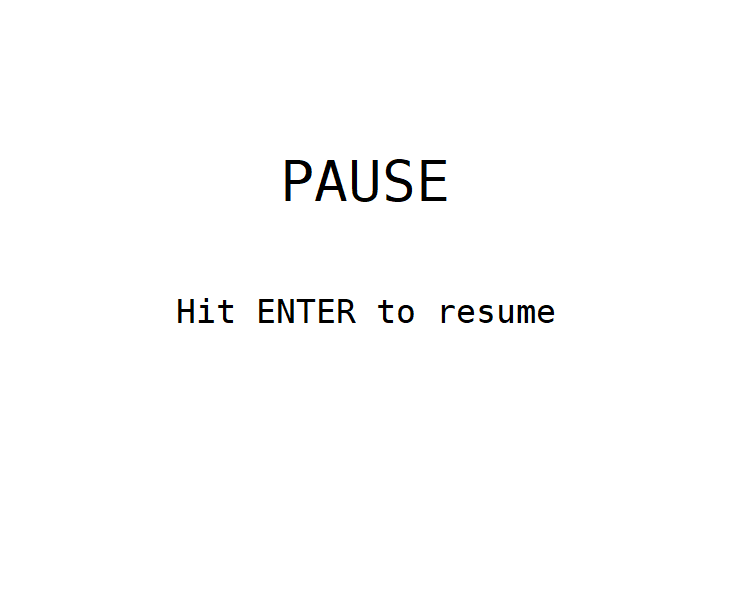
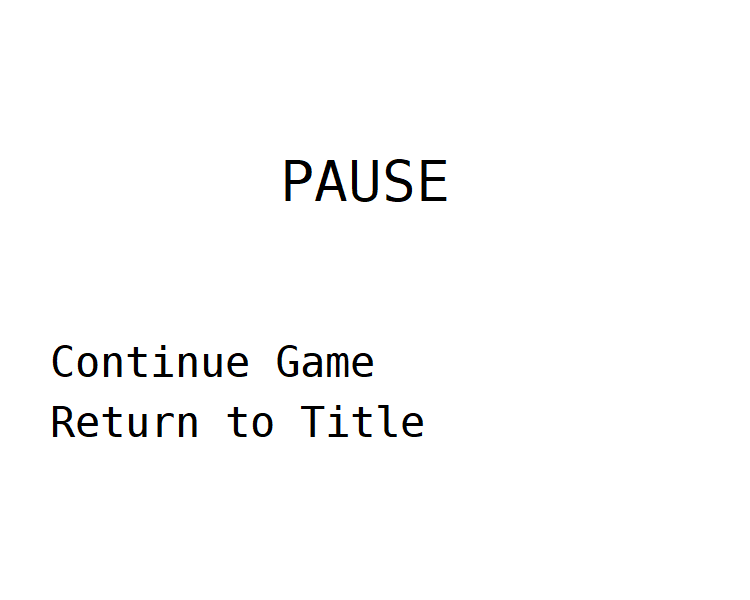
Add option in title and pause screen

diff --git a/src/main/java/org/atoiks/games/seihou2/scenes/AbstractGameScene.java b/src/main/java/org/atoiks/games/seihou2/scenes/AbstractGameScene.java
@@ -18,6 +18,14 @@ public abstract class AbstractGameScene extends Scene {
     public static final float DEFAULT_DY = 300f;
     public static final Color PAUSE_OVERLAY = new Color(192, 192, 192, 100);
 
+    // Conventionally, continue is always the first option,
+    // sceneDest is always one less than the selector{X, Y}
+    private static final int[] selectorX = {388, 434};
+    private static final int[] selectorY = {383, 444};
+    private static final int[] sceneDest = {1};
+
+    private int selector;
+
     protected final Game game = new Game();
 
     private byte updatePhase = -1;
@@ -37,7 +45,7 @@ public abstract class AbstractGameScene extends Scene {
     }
 
     @Override
-    public void enter() {
+    public void enter(int prevSceneId) {
         hpImg = (Image) scene.resources().get("hp.png");
         statsImg = (Image) scene.resources().get("stats.png");
         pauseImg = (Image) scene.resources().get("pause.png");
@@ -80,6 +88,8 @@ public abstract class AbstractGameScene extends Scene {
         game.render(g);
         if (pause) {
             g.drawImage(pauseImg, 0, 0, PAUSE_OVERLAY, null);
+            g.setColor(Color.black);
+            g.drawLine(55, selectorY[selector], selectorX[selector], selectorY[selector]);
         }
 
         // The game stats part
@@ -103,8 +113,21 @@ public abstract class AbstractGameScene extends Scene {
             }
             playerFireTimeout -= dt;
             return procPlayerPos(dt) && updatePhases[updatePhase].update(dt);
-        } else if (scene.keyboard().isKeyPressed(KeyEvent.VK_ENTER)) {
-            pause = false;
+        } else {
+            if (scene.keyboard().isKeyPressed(KeyEvent.VK_DOWN)) {
+                if (++selector >= selectorX.length) selector = 0;
+            }
+            if (scene.keyboard().isKeyPressed(KeyEvent.VK_UP)) {
+                if (--selector < 0) selector = selectorX.length - 1;
+            }
+            if (scene.keyboard().isKeyPressed(KeyEvent.VK_ENTER)) {
+                if (selector == 0) {
+                    pause = false;
+                } else {
+                    scene.switchToScene(sceneDest[selector - 1]);
+                }
+                return true;
+            }
         }
         return true;
     }

diff --git a/src/main/java/org/atoiks/games/seihou2/scenes/TitleScene.java b/src/main/java/org/atoiks/games/seihou2/scenes/TitleScene.java
@@ -14,20 +14,41 @@ import static org.atoiks.games.seihou2.scenes.MainScene.WIDTH;
 
 public final class TitleScene extends Scene {
 
+    // Conventionally, last scene is always Quit,
+    // sceneDest is always one less than the selector{X, Y}
+    private static final int[] selectorX = {270, 322, 175};
+    private static final int[] selectorY = {293, 357, 502};
+    private static final int[] sceneDest = {2, 3};
+
     private Image titleImg;
     private Clip bgm;
+    private int selector;
 
 	@Override
 	public void render(Graphics g) {
         g.setColor(Color.black);
         g.fillRect(0, 0, WIDTH, HEIGHT);
         g.drawImage(titleImg, 0, 0, null);
+        g.setColor(Color.white);
+        g.drawLine(65, selectorY[selector], selectorX[selector], selectorY[selector]);
 	}
 
 	@Override
 	public boolean update(float dt) {
         if (scene.keyboard().isKeyPressed(KeyEvent.VK_ENTER)) {
-            scene.gotoNextScene();
+            if (selector < sceneDest.length) {
+                scene.switchToScene(sceneDest[selector]);
+                return true;
+            }
+
+            // Quit was chosen
+            return false;
+        }
+        if (scene.keyboard().isKeyPressed(KeyEvent.VK_DOWN)) {
+            if (++selector >= selectorX.length) selector = 0;
+        }
+        if (scene.keyboard().isKeyPressed(KeyEvent.VK_UP)) {
+            if (--selector < 0) selector = selectorX.length - 1;
         }
 		return true;
 	}
@@ -38,7 +59,7 @@ public final class TitleScene extends Scene {
     }
     
     @Override
-    public void enter() {
+    public void enter(final int prevSceneId) {
         titleImg = (Image) scene.resources().get("title.png");
         bgm = (Clip) scene.resources().get("title.wav");
 

diff --git a/src/main/java/org/atoiks/games/seihou2/scenes/TutorialScene.java b/src/main/java/org/atoiks/games/seihou2/scenes/TutorialScene.java
@@ -3,8 +3,8 @@ package org.atoiks.games.seihou2.scenes;
 import java.awt.Image;
 import java.awt.Graphics;
 
-import org.atoiks.games.seihou2.entities.shield.*;
 import org.atoiks.games.seihou2.entities.Player;
+import org.atoiks.games.seihou2.entities.shield.*;
 import org.atoiks.games.seihou2.entities.enemies.*;
 
 public final class TutorialScene extends AbstractGameScene {
@@ -13,10 +13,9 @@ public final class TutorialScene extends AbstractGameScene {
     private Image tutorialImg;
 
     @Override
-    public void enter() {
-        super.enter();
+    public void enter(final int prevSceneId) {
+        super.enter(prevSceneId);
 
-        // new Player(GAME_BORDER / 2, HEIGHT / 6 * 5, new TrackingTimeShield(2, 35))
         game.player = new Player(GAME_BORDER / 2, HEIGHT / 6 * 5, new FixedTimeShield(3.5f, 50));
         
         game.addEnemy(new DummyEnemy(1, -10, 50, 8, true));

diff --git a/src/main/java/org/atoiks/games/seihou2/scenes/MainScene.java b/src/main/java/org/atoiks/games/seihou2/scenes/MainScene.java
@@ -1,13 +1,18 @@
 package org.atoiks.games.seihou2.scenes;
 
 import org.atoiks.games.seihou2.entities.*;
+import org.atoiks.games.seihou2.entities.shield.*;
 import org.atoiks.games.seihou2.entities.enemies.*;
 
 public final class MainScene extends AbstractGameScene {
 
     @Override
-    public void enter() {
-        super.enter();
+    public void enter(final int prevSceneId) {
+        super.enter(prevSceneId);
+
+        // The Shield should be stored in the resouces map,
+        // (it is selectable)
+        game.player = new Player(GAME_BORDER / 2, HEIGHT / 6 * 5, new TrackingTimeShield(2, 35));
 
         game.addEnemyBullet(new PointBullet(GAME_BORDER / 2, -10, 10, 20, 60));
 

diff --git a/src/main/java/org/atoiks/games/framework/SceneManager.java b/src/main/java/org/atoiks/games/framework/SceneManager.java
@@ -28,10 +28,10 @@ public final class SceneManager {
         }
     }
 
-    public void switchToScene(int id) {
+    public void switchToScene(final int id) {
         if (sceneId >= 0 && sceneId < scenes.length) scenes[sceneId].leave();
+        if (id >= 0 && id < scenes.length) scenes[id].enter(sceneId);
         sceneId = id;
-        if (sceneId >= 0 && sceneId < scenes.length) scenes[sceneId].enter();
         skipCycle = true;
     }
 

diff --git a/src/main/java/org/atoiks/games/framework/Scene.java b/src/main/java/org/atoiks/games/framework/Scene.java
@@ -28,7 +28,7 @@ public abstract class Scene {
         // Does nothing
     }
 
-    public void enter() {
+    public void enter(int previousSceneId) {
         // Does nothing
     }
 }

diff --git a/src/main/java/org/atoiks/games/seihou2/App.java b/src/main/java/org/atoiks/games/seihou2/App.java
@@ -17,5 +17,6 @@ public class App {
             frame.init();
             frame.loop();
         }
+        System.exit(0);
     }
 }
